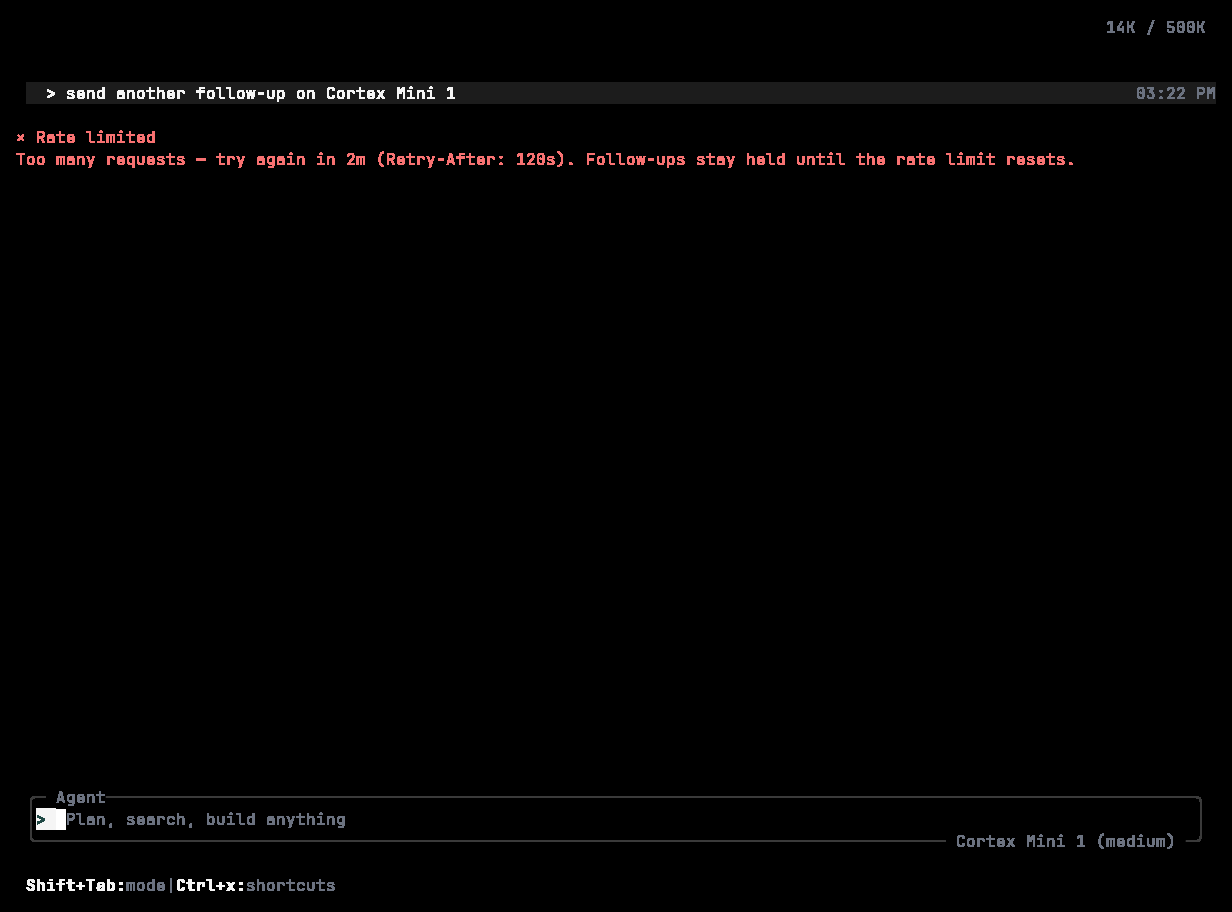
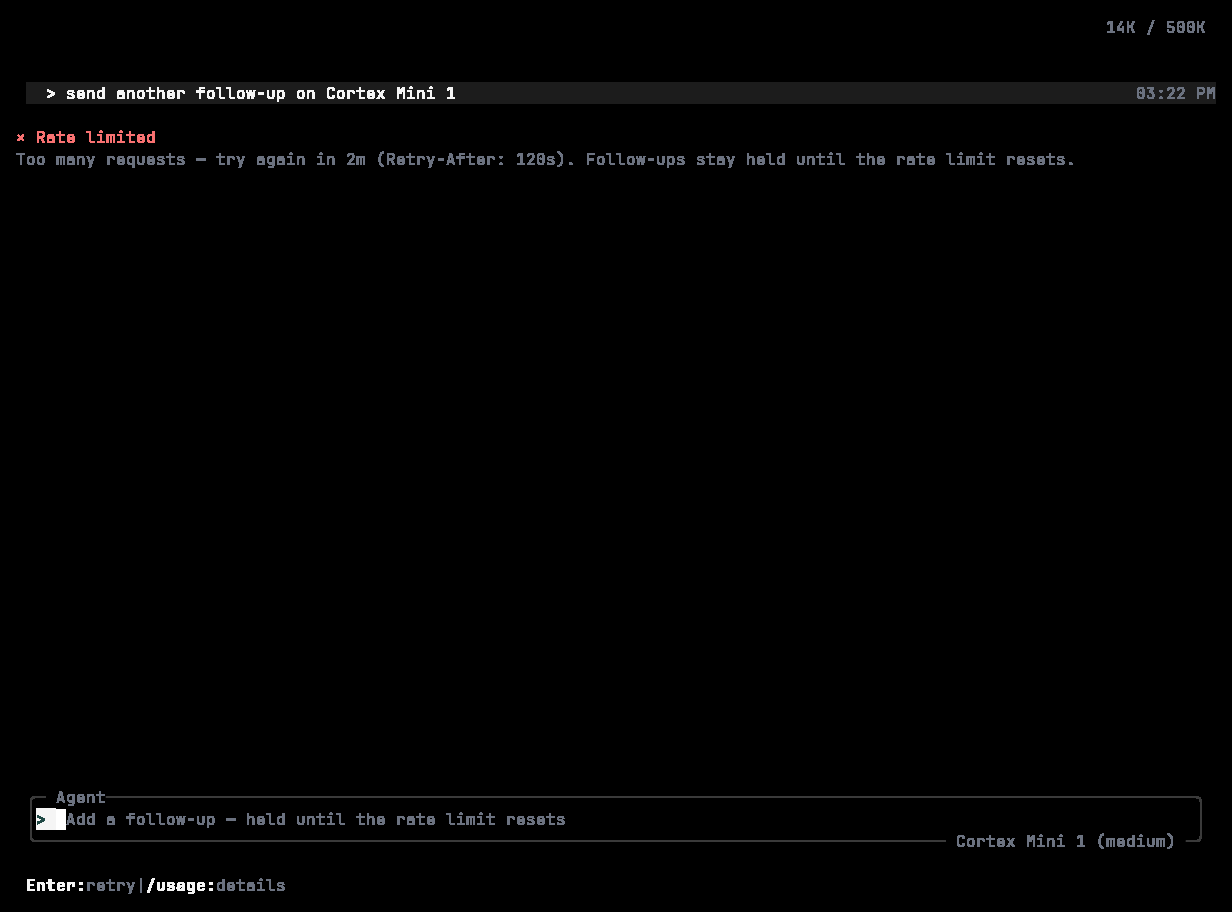
fix(tui): match lock_v2 offline/rate-limit to designer
Hold composer + footer for offline and HTTP 429; paint titles error-red
and bodies dim. Re-render runtime PNGs only.

diff --git a/src/cortex-tui/src/lock_v2_network.rs b/src/cortex-tui/src/lock_v2_network.rs
@@ -8,31 +8,41 @@ use cortex_core::widgets::Message;
 
 use crate::app::AppState;
 
+pub const OFFLINE_TITLE: &str = "× You're offline";
+pub const OFFLINE_BODY: &str =
+    "Reconnect when the network is back — your work is saved in this session.";
+pub const OFFLINE_BODY_NARROW: &str = "Reconnect — your work is saved.";
+pub const RATE_LIMIT_TITLE: &str = "× Rate limited";
+pub const RATE_LIMIT_BODY: &str = "Too many requests — try again in 2m (Retry-After: 120s). Follow-ups stay held until the rate limit resets.";
+
 /// Apply an offline or rate-limit lock scene. Returns `false` when `id` is neither.
 pub fn apply_offline_rate_limit_scene(id: &str, state: &mut AppState) -> bool {
+    let narrow = state.terminal_size.0 <= 40;
     match id {
         "offline" => {
             state.show_launch_splash = false;
             state.tokens_used = 14_000;
+            state.offline_held = true;
             state.add_message(
                 Message::user("keep going on this Cortex session").with_timestamp("03:18 PM"),
             );
-            state.add_message(Message::system("× You're offline"));
-            state.add_message(Message::system(
-                "Reconnect when the network is back — your work is saved in this session.",
-            ));
+            state.add_message(Message::system(OFFLINE_TITLE));
+            state.add_message(Message::system(if narrow {
+                OFFLINE_BODY_NARROW
+            } else {
+                OFFLINE_BODY
+            }));
             true
         }
         "rate-limit" => {
             state.show_launch_splash = false;
             state.tokens_used = 14_000;
+            state.rate_limit_held = true;
             state.add_message(
                 Message::user("send another follow-up on Cortex Mini 1").with_timestamp("03:22 PM"),
             );
-            state.add_message(Message::system("× Rate limited"));
-            state.add_message(Message::system(
-                "Too many requests — try again in 2m (Retry-After: 120s). Follow-ups stay held until the rate limit resets.",
-            ));
+            state.add_message(Message::system(RATE_LIMIT_TITLE));
+            state.add_message(Message::system(RATE_LIMIT_BODY));
             true
         }
         _ => false,
@@ -43,6 +53,27 @@ pub fn apply_offline_rate_limit_scene(id: &str, state: &mut AppState) -> bool {
 mod tests {
     use super::*;
     use crate::lock_v2::render_lock_v2_scene;
+    use crate::ui::consts::{
+        PLACEHOLDER_OFFLINE, PLACEHOLDER_OFFLINE_NARROW, PLACEHOLDER_QUOTA, PLACEHOLDER_RATE_LIMIT,
+        PLACEHOLDER_RATE_LIMIT_NARROW,
+    };
+    use cortex_core::style::{ERROR, TEXT_DIM};
+    use ratatui::style::Color;
+
+    fn first_fg(frame: &crate::lock_proof::LockFrame, needle: &str) -> Option<Color> {
+        let width = frame.buffer.area.width;
+        let height = frame.buffer.area.height;
+        for y in 0..height {
+            let mut row = String::new();
+            for x in 0..width {
+                row.push_str(frame.buffer[(x, y)].symbol());
+            }
+            if let Some(idx) = row.find(needle) {
+                return Some(frame.buffer[(idx as u16, y)].fg);
+            }
+        }
+        None
+    }
 
     #[test]
     fn offline_and_rate_limit_are_distinct_from_api_and_quota() {
@@ -57,13 +88,28 @@ mod tests {
             offline.plain
         );
         assert!(
-            offline.plain.contains("Reconnect") && offline.plain.contains("network"),
+            offline.plain.contains(OFFLINE_BODY),
             "offline body:\n{}",
             offline.plain
         );
         assert!(
             !offline.plain.contains("temporarily unavailable"),
             "offline must not reuse the API-down line:\n{}",
+            offline.plain
+        );
+        assert!(
+            offline.plain.contains(PLACEHOLDER_OFFLINE),
+            "offline held composer:\n{}",
+            offline.plain
+        );
+        assert!(
+            offline.plain.contains("Enter:retry") && offline.plain.contains("Ctrl+x:shortcuts"),
+            "offline footer:\n{}",
+            offline.plain
+        );
+        assert!(
+            !offline.plain.contains("Shift+Tab:mode"),
+            "offline must not use the idle footer:\n{}",
             offline.plain
         );
 
@@ -87,6 +133,32 @@ mod tests {
             "rate-limit must not lead with a billing upgrade CTA:\n{}",
             rate.plain
         );
+        assert!(
+            rate.plain.contains(PLACEHOLDER_RATE_LIMIT),
+            "rate-limit held composer:\n{}",
+            rate.plain
+        );
+        assert!(
+            !rate.plain.contains(PLACEHOLDER_QUOTA),
+            "rate-limit must not reuse the quota placeholder:\n{}",
+            rate.plain
+        );
+        assert!(
+            rate.plain.contains("Enter:retry") && rate.plain.contains("/usage:details"),
+            "rate-limit footer:\n{}",
+            rate.plain
+        );
+        assert!(
+            !rate.plain.contains("Shift+Tab:mode"),
+            "rate-limit must not use the idle footer:\n{}",
+            rate.plain
+        );
+
+        assert_eq!(first_fg(&offline, "You're offline"), Some(ERROR));
+        assert_eq!(first_fg(&offline, "Reconnect"), Some(TEXT_DIM));
+        assert_eq!(first_fg(&rate, "Rate limited"), Some(ERROR));
+        assert_eq!(first_fg(&rate, "Too many requests"), Some(TEXT_DIM));
+        assert_eq!(first_fg(&unavail, "temporarily unavailable"), Some(ERROR));
 
         assert_ne!(offline.ansi, unavail.ansi);
         assert_ne!(rate.ansi, quota.ansi);
@@ -109,7 +181,48 @@ mod tests {
                 "rate-limit at {width}x{height}:\n{}",
                 b.plain
             );
+            assert_eq!(
+                first_fg(&a, "You're offline"),
+                Some(ERROR),
+                "offline title red at {width}x{height}"
+            );
+            assert_eq!(
+                first_fg(&b, "Rate limited"),
+                Some(ERROR),
+                "rate-limit title red at {width}x{height}"
+            );
+            assert_eq!(
+                first_fg(&b, "Too many requests"),
+                Some(TEXT_DIM),
+                "rate-limit body dim at {width}x{height}"
+            );
         }
+
+        let offline_n = render_lock_v2_scene("offline", 40, 12).expect("offline narrow");
+        assert!(
+            offline_n.plain.contains(OFFLINE_BODY_NARROW),
+            "narrow offline body:\n{}",
+            offline_n.plain
+        );
+        assert!(
+            !offline_n.plain.contains("when the network is back"),
+            "narrow offline must use the short body:\n{}",
+            offline_n.plain
+        );
+        assert!(
+            offline_n.plain.contains(PLACEHOLDER_OFFLINE_NARROW),
+            "narrow offline placeholder:\n{}",
+            offline_n.plain
+        );
+        assert_eq!(first_fg(&offline_n, "Reconnect"), Some(TEXT_DIM));
+
+        let rate_n = render_lock_v2_scene("rate-limit", 40, 12).expect("rate-limit narrow");
+        assert!(
+            rate_n.plain.contains(PLACEHOLDER_RATE_LIMIT_NARROW)
+                || rate_n.plain.contains("rate limit resets"),
+            "narrow rate-limit placeholder:\n{}",
+            rate_n.plain
+        );
     }
 
     #[test]
@@ -123,5 +236,8 @@ mod tests {
             "quota-exhausted",
             &mut state
         ));
+        assert!(!state.offline_held);
+        assert!(!state.rate_limit_held);
+        assert!(!state.quota_held);
     }
 }

diff --git a/src/cortex-tui/src/views/minimal_session/view.rs b/src/cortex-tui/src/views/minimal_session/view.rs
@@ -306,6 +306,18 @@ impl<'a> MinimalSessionView<'a> {
         let placeholder = if input_text.is_empty() {
             Some(if prompt_owns_focus {
                 PLACEHOLDER_PROMPT
+            } else if self.app_state.offline_held {
+                if area_is_narrow(self.app_state.terminal_size.0) {
+                    crate::ui::consts::PLACEHOLDER_OFFLINE_NARROW
+                } else {
+                    crate::ui::consts::PLACEHOLDER_OFFLINE
+                }
+            } else if self.app_state.rate_limit_held {
+                if area_is_narrow(self.app_state.terminal_size.0) {
+                    crate::ui::consts::PLACEHOLDER_RATE_LIMIT_NARROW
+                } else {
+                    crate::ui::consts::PLACEHOLDER_RATE_LIMIT
+                }
             } else if self.app_state.quota_held {
                 crate::ui::consts::PLACEHOLDER_QUOTA
             } else if self.is_task_running() {
@@ -720,8 +732,11 @@ pub const PALETTE_FOOTER_HINT_SHORT: &str = "Enter:send | Ctrl+x:shortcuts";
 
 impl<'a> MinimalSessionView<'a> {
     fn footer_set(&self, is_task_running: bool, width: u16) -> FooterSet {
-        if self.app_state.quota_held {
+        if self.app_state.offline_held || self.app_state.quota_held {
             return FooterSet::Unavailable;
+        }
+        if self.app_state.rate_limit_held {
+            return FooterSet::RateLimit;
         }
         if let Some(state) = self.app_state.get_interactive_state() {
             if state.effort_focused {

diff --git a/src/cortex-tui/src/ui/consts.rs b/src/cortex-tui/src/ui/consts.rs
@@ -49,6 +49,16 @@ pub const PLACEHOLDER_QUOTA: &str = "Add a follow-up — held until quota resets
 /// Narrow (40-column) form of the quota placeholder.
 pub const PLACEHOLDER_QUOTA_NARROW: &str = "Follow-up — held until quota resets";
 
+/// Composer placeholder while the session is offline.
+pub const PLACEHOLDER_OFFLINE: &str = "Waiting for network — your work is saved";
+/// Narrow (40-column) form of the offline placeholder.
+pub const PLACEHOLDER_OFFLINE_NARROW: &str = "Waiting for network";
+
+/// Composer placeholder while HTTP 429 holds follow-ups.
+pub const PLACEHOLDER_RATE_LIMIT: &str = "Add a follow-up — held until the rate limit resets";
+/// Narrow (40-column) form of the rate-limit placeholder.
+pub const PLACEHOLDER_RATE_LIMIT_NARROW: &str = "Held until the rate limit resets";
+
 /// Sandbox deny title painted in error red.
 pub const SANDBOX_DENIED_TITLE: &str = "Sandbox denied";
 

diff --git a/src/cortex-tui/src/app/state.rs b/src/cortex-tui/src/app/state.rs
@@ -202,6 +202,10 @@ pub struct AppState {
     pub update_info: Option<cortex_update::UpdateInfo>,
     /// Agent quota is exhausted — follow-ups stay in the composer until it resets.
     pub quota_held: bool,
+    /// Network is unreachable — follow-ups stay in the composer until reconnect.
+    pub offline_held: bool,
+    /// HTTP 429 rate limit — follow-ups stay in the composer until Retry-After.
+    pub rate_limit_held: bool,
     /// Launched via the `agent` binary / alias.
     pub agent_entrypoint: bool,
     /// Token counter used / window.
@@ -342,6 +346,8 @@ impl AppState {
             update_status: UpdateStatus::default(),
             update_info: None,
             quota_held: false,
+            offline_held: false,
+            rate_limit_held: false,
             agent_entrypoint: false,
             tokens_used: 0,
             context_window: 500_000,

diff --git a/src/cortex-tui/src/ui/chrome.rs b/src/cortex-tui/src/ui/chrome.rs
@@ -250,6 +250,7 @@ pub enum FooterSet {
     Resume,
     Bash,
     Unavailable,
+    RateLimit,
     Palette,
 }
 
@@ -452,6 +453,16 @@ impl FooterSet {
                 FooterHint {
                     key: "Ctrl+x",
                     label: "shortcuts",
+                },
+            ],
+            Self::RateLimit => &[
+                FooterHint {
+                    key: "Enter",
+                    label: "retry",
+                },
+                FooterHint {
+                    key: "/usage",
+                    label: "details",
                 },
             ],
             Self::Palette => &[

diff --git a/src/cortex-tui/src/views/minimal_session/rendering.rs b/src/cortex-tui/src/views/minimal_session/rendering.rs
@@ -127,7 +127,8 @@ pub fn render_message_with_theme(
                 || msg.content.contains("timed out")
                 || msg.content.contains("failed")
                 || msg.content.contains("Invalid")
-                || msg.content.contains("limit")
+                || msg.content.contains("You're offline")
+                || msg.content.contains("Rate limited")
                 || msg.content.contains("Stopped")
                 || msg.content.contains("quota exhausted")
                 || msg.content.contains("Sandbox denied")
